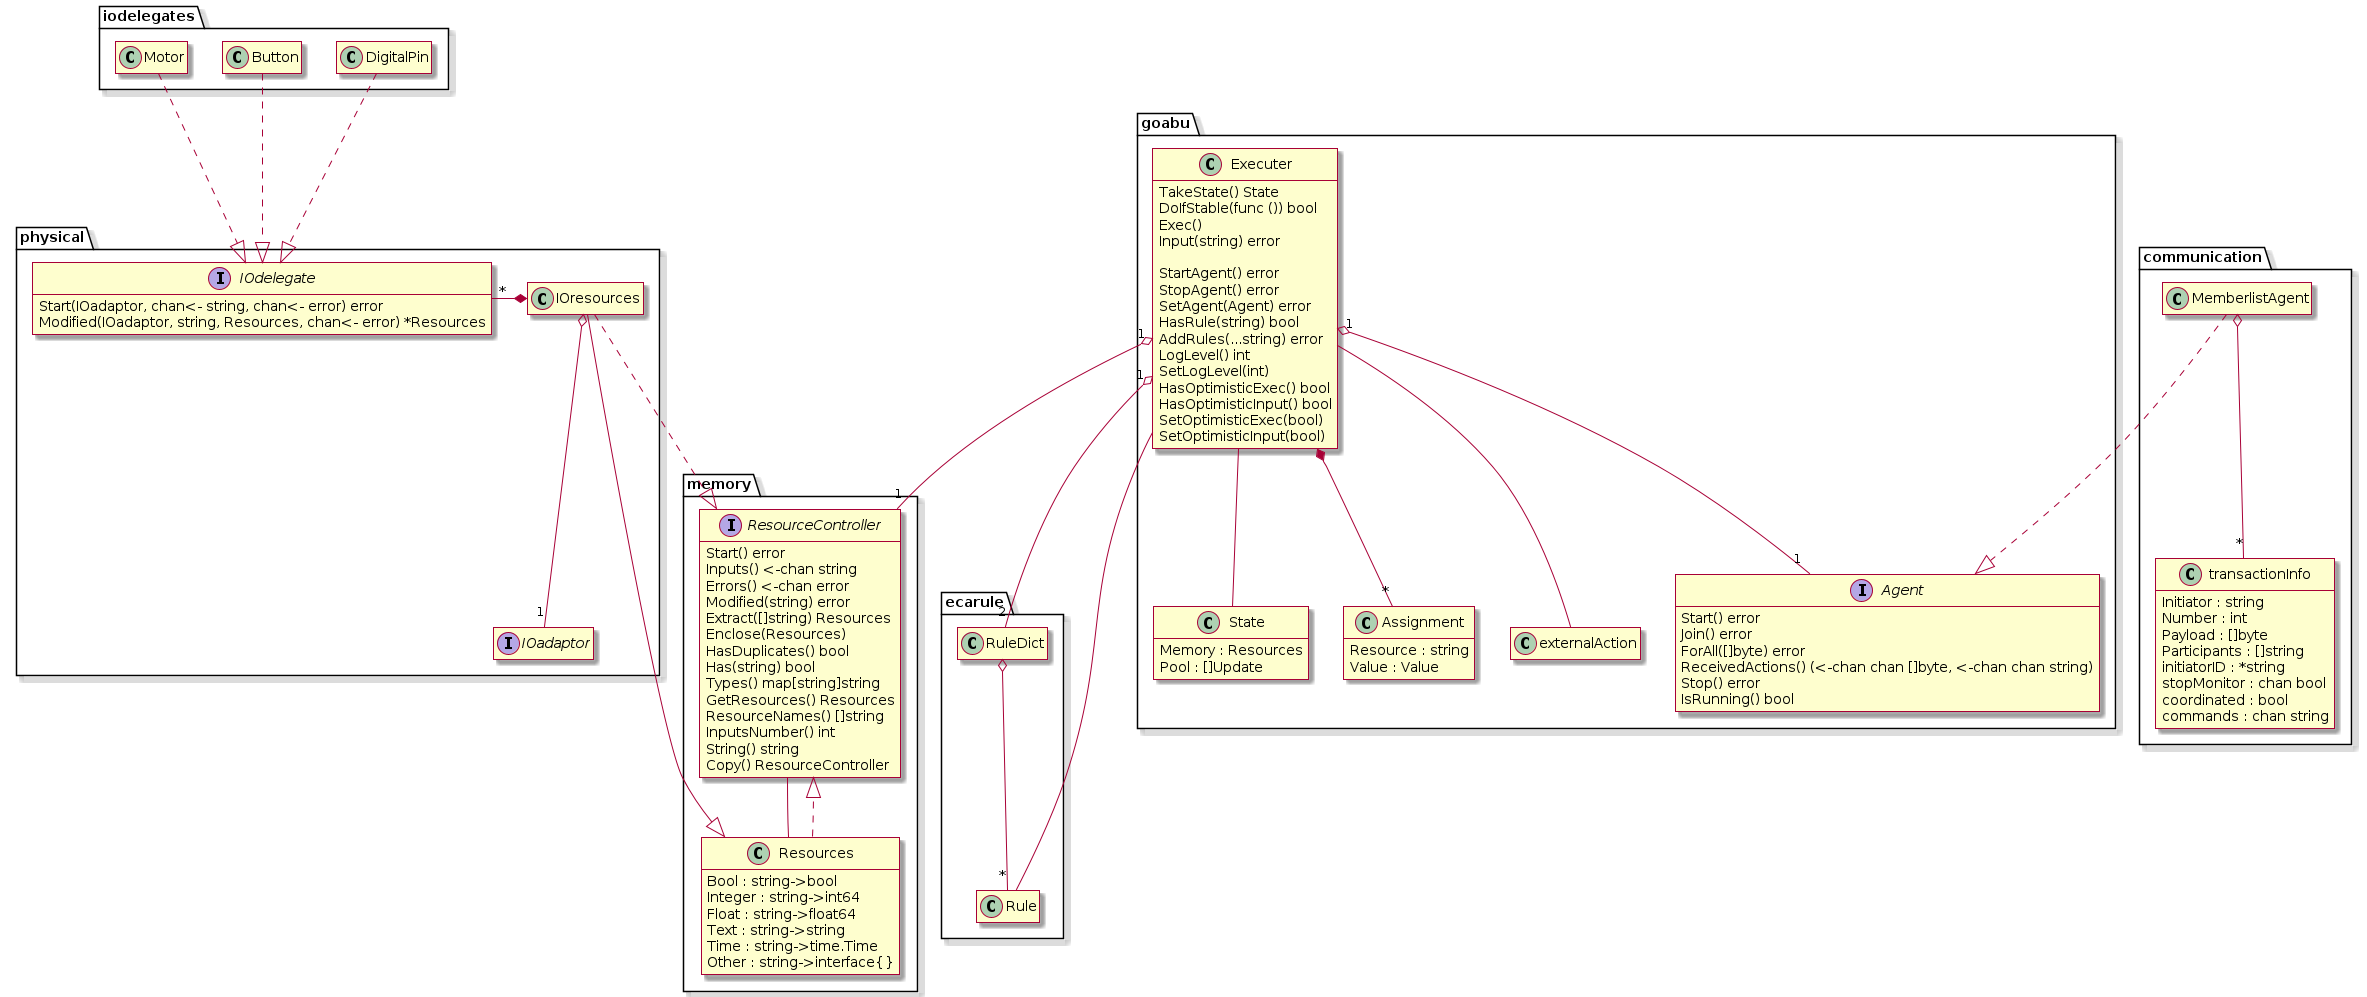
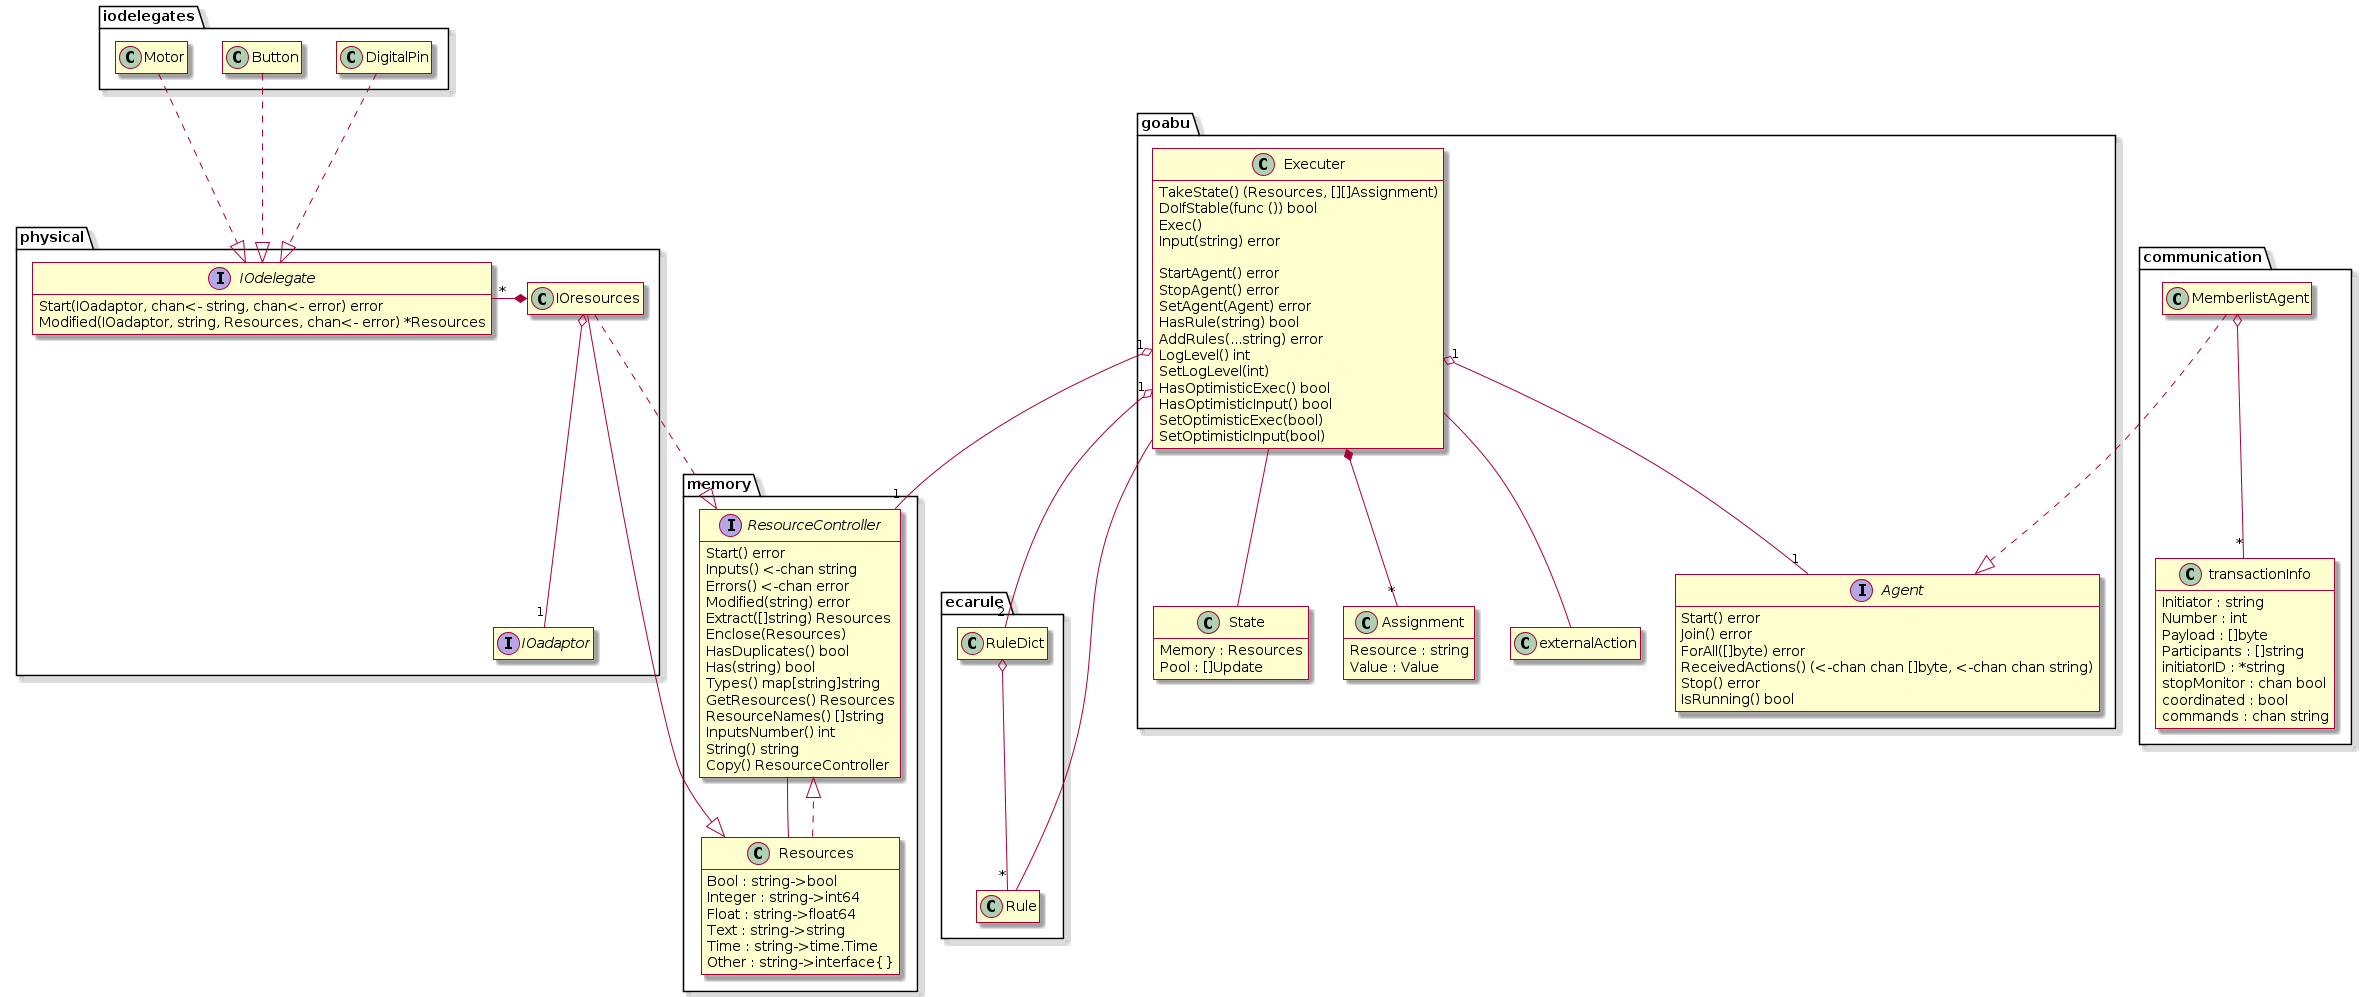
Remove deprecated State struct

Changed region(s): [[0.4935, 0.1244, 0.6477, 0.4664], [0.6477, 0.4042, 0.6785, 0.4353], [0.4626, 0.342, 0.4935, 0.3731]]

diff --git a/memberlistInteg_test.go b/memberlistInteg_test.go
@@ -35,8 +35,7 @@ func TestSingleNode(t *testing.T) {
 	if e.DoIfStable(func() {}) {
 		t.Error("should not be stable")
 	}
-	state := e.TakeState()
-	memory = state.Memory
+	memory, _ = e.TakeState()
 	if memory.Bool["aliqua"] {
 		t.Error("aliqua should be false")
 	}
@@ -67,7 +66,7 @@ func TestTwoNodes(t *testing.T) {
 		if !e1.DoIfStable(func() {}) {
 			t.Error("should be stable")
 		}
-		mem1 := e1.TakeState().Memory
+		mem1, _ := e1.TakeState()
 		if mem1.Integer["lorem"] != 10 {
 			t.Error("lorem should be 10")
 		}
@@ -84,7 +83,7 @@ func TestTwoNodes(t *testing.T) {
 		if !e2.DoIfStable(func() {}) {
 			t.Error("should be stable")
 		}
-		mem2 := e2.TakeState().Memory
+		mem2, _ := e2.TakeState()
 		if mem2.Integer["lorem"] != 10 {
 			t.Error("lorem should be 10")
 		}
@@ -106,10 +105,12 @@ func TestThreeNodes(t *testing.T) {
 		e1.SetOptimisticExec(*goabu.Optimistic)
 		e1.SetOptimisticInput(*goabu.Optimistic)
 		t.Parallel()
-		for e1.TakeState().Memory.Float["ipsum"] != 6.5 {
+		mem1, _ := e1.TakeState()
+		for mem1.Float["ipsum"] != 6.5 {
 			e1.Exec()
+			mem1, _ = e1.TakeState()
 		}
-		if !e1.TakeState().Memory.Bool["involved"] {
+		if mem1, _ = e1.TakeState(); !mem1.Bool["involved"] {
 			t.Error("involved should be true")
 		}
 	})
@@ -125,7 +126,7 @@ func TestThreeNodes(t *testing.T) {
 		for e2.DoIfStable(func() {}) {
 		}
 		e2.Exec()
-		mem2 := e2.TakeState().Memory
+		mem2, _ := e2.TakeState()
 		if !mem2.Bool["involved"] {
 			t.Error("involved should be true")
 		}
@@ -143,10 +144,12 @@ func TestThreeNodes(t *testing.T) {
 		e3.SetOptimisticExec(*goabu.Optimistic)
 		e3.SetOptimisticInput(*goabu.Optimistic)
 		e3.Input("ipsum = 6.0;")
-		for e3.TakeState().Memory.Float["ipsum"] != 6.5 {
+		mem3, _ := e3.TakeState()
+		for mem3.Float["ipsum"] != 6.5 {
 			e3.Exec()
+			mem3, _ = e3.TakeState()
 		}
-		if !e3.TakeState().Memory.Bool["involved"] {
+		if mem3, _ = e3.TakeState(); !mem3.Bool["involved"] {
 			t.Error("involved should be true")
 		}
 	})
@@ -194,17 +197,17 @@ func incNode(m int64, e *goabu.Executer) <-chan struct{} {
 	res := make(chan struct{})
 	go func() {
 		e.Input("A = 1")
-		state := e.TakeState()
-		for state.Memory.Integer["A"] != m {
-			if state.Memory.Integer["A"] > m {
+		mem, _ := e.TakeState()
+		for mem.Integer["A"] != m {
+			if mem.Integer["A"] > m {
 				panic(fmt.Sprintf("A should be <= %d", m))
 			}
 			e.Exec()
-			state = e.TakeState()
+			mem, _ = e.TakeState()
 		}
 		for !e.DoIfStable(func() {}) {
 			e.Exec()
-			if e.TakeState().Memory.Integer["A"] > m {
+			if mem, _ = e.TakeState(); mem.Integer["A"] > m {
 				panic(fmt.Sprintf("A should be <= %d", m))
 			}
 		}
@@ -232,7 +235,7 @@ func TestInvariants(t *testing.T) {
 		if !e1.DoIfStable(func() {}) {
 			t.Error("should be stable")
 		}
-		mem1 := e1.TakeState().Memory
+		mem1, _ := e1.TakeState()
 		if mem1.Integer["odd"] != 17 {
 			t.Error("odd should be 17")
 		}
@@ -257,7 +260,7 @@ func TestInvariants(t *testing.T) {
 		if !e2.DoIfStable(func() {}) {
 			t.Error("should be stable")
 		}
-		mem2 := e2.TakeState().Memory
+		mem2, _ := e2.TakeState()
 		if mem2.Integer["even"] != 12 {
 			t.Error("even should be 12")
 		}

diff --git a/executer.go b/executer.go
@@ -23,12 +23,6 @@ import (
 	"go.uber.org/zap/zapcore"
 )
 
-// Deprecated: In the future, method TakeState will return two values.
-type State struct {
-	Memory memory.Resources
-	Pool   []Update
-}
-
 type Executer struct {
 	memory         memory.ResourceController
 	lockMemory     sync.RWMutex
@@ -157,7 +151,7 @@ func (m *Executer) SetAgent(agt Agent) error {
 	return nil
 }
 
-func (m *Executer) TakeState() State {
+func (m *Executer) TakeState() (memory.Resources, []Update) {
 	m.coordinator.requestWrite(false)
 	m.lockMemory.RLock()
 	memCopy := m.memory.Copy().GetResources()
@@ -173,7 +167,7 @@ func (m *Executer) TakeState() State {
 	}
 	<-lock
 	m.coordinator.closeWrite()
-	return State{Memory: memCopy, Pool: poolCopy}
+	return memCopy, poolCopy
 }
 
 func (m *Executer) DoIfStable(f func()) bool {

diff --git a/raspiInteg_test.go b/raspiInteg_test.go
@@ -41,11 +41,14 @@ func TestLed2Buttons(t *testing.T) {
 	}
 	dummy.SetOptimisticExec(*goabu.Optimistic)
 	dummy.SetOptimisticInput(*goabu.Optimistic)
-	ledStatus := eLed.TakeState().Memory.Bool["led"]
+
+	state, _ := eLed.TakeState()
+	ledStatus, _ := state.Bool["led"]
 	for toggles > 0 {
 		time.Sleep(time.Millisecond)
 		eLed.Exec()
-		status := eLed.TakeState().Memory.Bool["led"]
+		state, _ = eLed.TakeState()
+		status := state.Bool["led"]
 		if ledStatus != status {
 			ledStatus = status
 			toggles--
@@ -72,7 +75,7 @@ func TestMotor(t *testing.T) {
 	for {
 		time.Sleep(8 * time.Second)
 		e.Exec()
-		if e.TakeState().Memory.Integer["motor"] == 0 {
+		if state, _ := e.TakeState(); state.Integer["motor"] == 0 {
 			break
 		}
 	}

diff --git a/README.md b/README.md
@@ -185,12 +185,12 @@ To access the values of the resources we can use the method TakeState().
 TakeState() returns a copy of the Executer's Resources struct and a copy of its Update pool.
 
 ```go
-state := executer.TakeState()
-fmt.Println("foo =", state.Memory.Integer["foo"])
-fmt.Println("bar =", state.Memory.Text["bar"])
-state2 := executer2.TakeState()
-fmt.Println("foo =", state2.Memory.Integer["foo"])
-fmt.Println("baz =", state2.Memory.Float["baz"])
+state, _ := executer.TakeState()
+fmt.Println("foo =", state.Integer["foo"])
+fmt.Println("bar =", state.Text["bar"])
+state2, _ := executer2.TakeState()
+fmt.Println("foo =", state2.Integer["foo"])
+fmt.Println("baz =", state2.Float["baz"])
 ```
 
 # Input/Output Resources
@@ -307,11 +307,11 @@ func main() {
 	executer.Exec()
 	executer.Exec()
 
-	state := executer.TakeState()
-	fmt.Println("foo =", state.Memory.Integer["foo"])
-	fmt.Println("bar =", state.Memory.Text["bar"])
-	state2 := executer2.TakeState()
-	fmt.Println("foo =", state2.Memory.Integer["foo"])
-	fmt.Println("baz =", state2.Memory.Float["baz"])
+	state, _ := executer.TakeState()
+	fmt.Println("foo =", state.Integer["foo"])
+	fmt.Println("bar =", state.Text["bar"])
+	state2, _ := executer2.TakeState()
+	fmt.Println("foo =", state2.Integer["foo"])
+	fmt.Println("baz =", state2.Float["baz"])
 }
 ```
